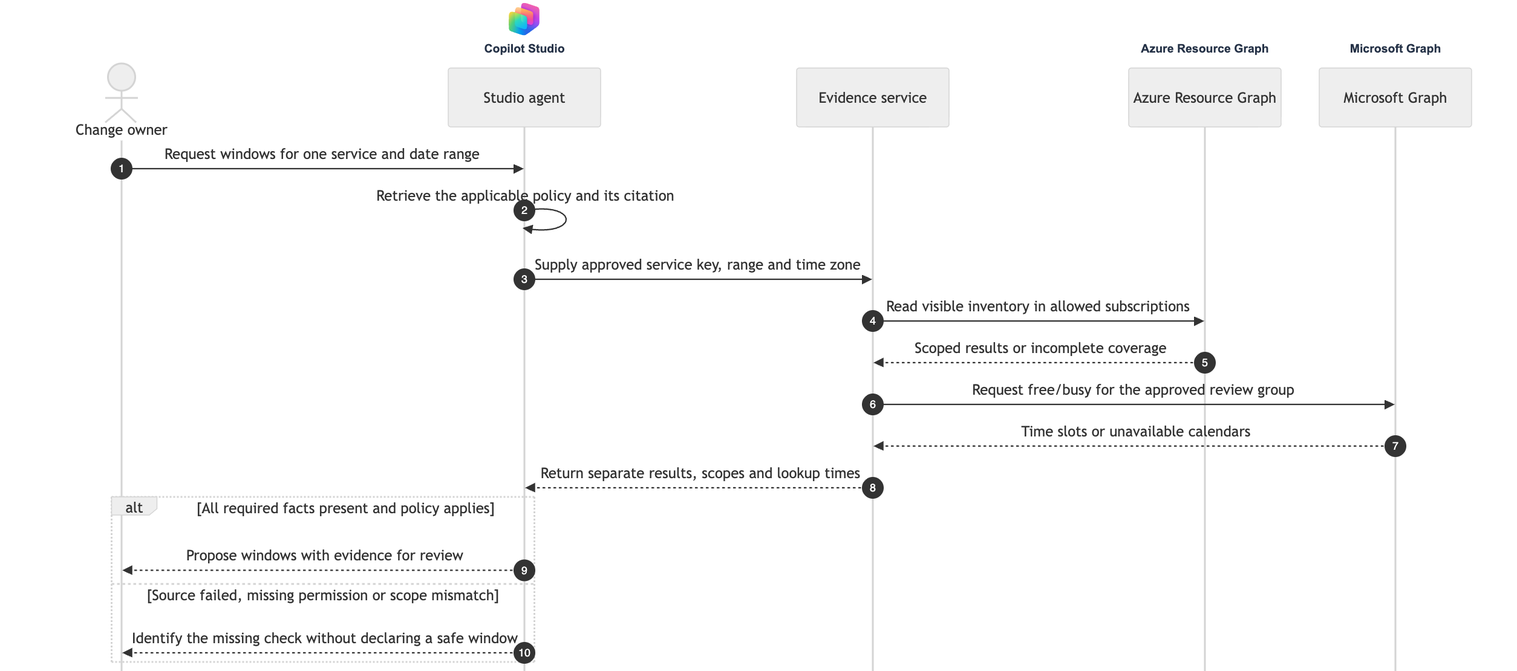
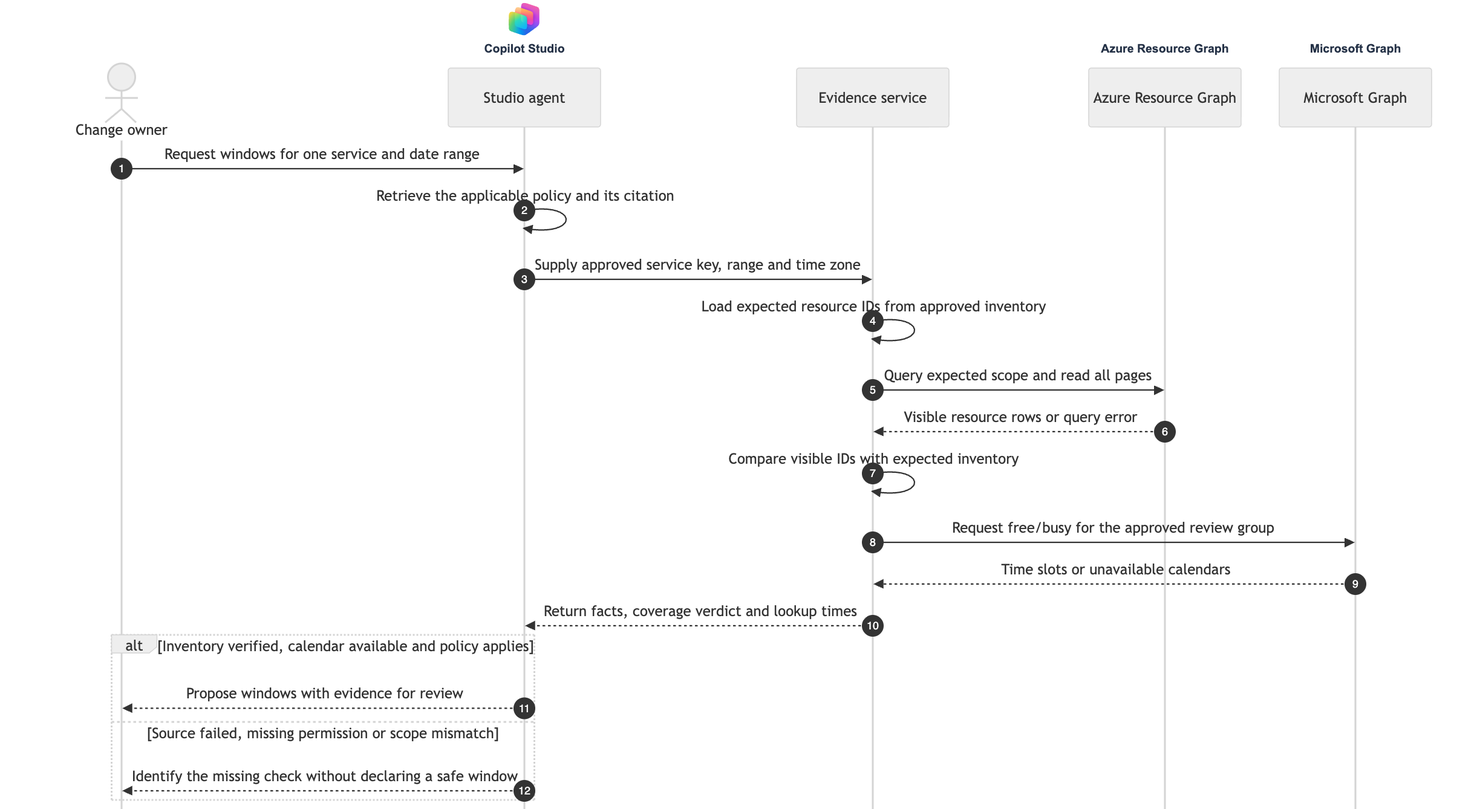
Require catalog-specific review evidence and correct two technical flows

diff --git a/tools/validate_solution.py b/tools/validate_solution.py
@@ -24,17 +24,71 @@ RULES = {
 }
 RISKS = ("retrieval", "writes", "external", "autonomous", "consequential", "custom_model")
 OBSERVED = {"quality", "operations", "cost", "identity", "grounding", "receipt", "egress", "trigger", "oversight", "lineage", "runtime"}
-# Only intrinsic risks: using a connector, for example, does not imply a write.
+# Minimum risks for the documented design, not everything its products could do.
+# () is a reviewed entry with no extra mandatory gate, not a missing classification.
 PATTERN_RISKS = {
-    "technical-patterns/write-reconciliation.md": {"writes"},
-    "technical-patterns/event-worker.md": {"autonomous"},
-    "technical-patterns/partner-iq-provider.md": {"external"},
-    "technical-patterns/web-iq-research.md": {"retrieval", "external"},
-    "technical-patterns/custom-retrieval.md": {"retrieval"},
-    "technical-patterns/azure-search-hybrid-rag.md": {"retrieval"},
-    "technical-patterns/foundry-iq-knowledge-base.md": {"retrieval"},
-    "technical-patterns/search-index-lifecycle.md": {"retrieval"},
-    "technical-patterns/m365-retrieval-api.md": {"retrieval"},
+    "reference-architectures/conversation-transcripts.md": ("writes", "autonomous"),
+    "reference-architectures/fabric-analytics.md": ("retrieval",),
+    "reference-architectures/hr-specialists.md": ("retrieval", "writes", "consequential"),
+    "reference-architectures/meeting-migration.md": ("writes",),
+    "reference-architectures/model-driven-form.md": (),  # Recommends; user owns the save.
+    "reference-architectures/multilingual-it-service.md": ("retrieval", "writes"),
+    "reference-architectures/regulatory-applications.md": ("retrieval", "writes", "consequential"),
+    "reference-architectures/sap-order-acknowledgments.md": ("retrieval", "writes", "autonomous", "consequential"),
+    "reference-architectures/student-recruitment.md": ("retrieval", "writes", "autonomous"),
+    "solution-ideas/bug-intake.md": ("retrieval", "writes", "autonomous", "external"),
+    "solution-ideas/cardiology-intake.md": ("writes", "autonomous", "consequential"),
+    "solution-ideas/custom-contact-center.md": ("retrieval", "external"),
+    "solution-ideas/customer-support.md": ("retrieval", "writes"),
+    "solution-ideas/donor-management.md": ("writes", "consequential"),
+    "solution-ideas/new-hire-onboarding.md": ("writes",),  # HR trigger is optional.
+    "solution-ideas/patient-support.md": ("retrieval", "writes", "consequential"),
+    "solution-ideas/rental-search-checkout.md": ("retrieval", "writes", "external", "consequential", "autonomous"),
+    "solution-ideas/spend-anomalies.md": ("retrieval", "writes", "autonomous", "consequential"),
+    "solution-ideas/ticket-refunds.md": ("writes", "autonomous", "consequential"),
+    "solution-ideas/travel-concierge.md": ("retrieval",),
+    "decision-patterns/bot-front-handoff.md": ("writes",),  # Opens a mapped live session.
+    "decision-patterns/classic-topics.md": ("writes",),  # Confirmed badge request.
+    "decision-patterns/copilot-reasoning-loop.md": ("retrieval",),
+    "decision-patterns/fabric-connected.md": ("retrieval",),
+    "decision-patterns/fabric-copilot-harness.md": ("retrieval",),
+    "decision-patterns/fabric-direct.md": ("retrieval",),
+    "decision-patterns/fabric-standard-harness.md": ("retrieval",),
+    "decision-patterns/generative-planning.md": ("retrieval",),
+    "decision-patterns/hub-front-handoff.md": ("writes",),  # Transfers ownership in the hub.
+    "technical-patterns/apim-rest-to-mcp.md": ("retrieval", "external"),  # Carrier API.
+    "technical-patterns/approval-workflow.md": ("writes", "consequential"),
+    "technical-patterns/azure-search-hybrid-rag.md": ("retrieval",),
+    "technical-patterns/change-window-evidence.md": ("retrieval",),
+    "technical-patterns/child-agent.md": ("writes",),  # Includes confirmed asset returns.
+    "technical-patterns/connected-agent.md": ("retrieval",),
+    "technical-patterns/connector-action.md": ("retrieval",),  # Shipment status only.
+    "technical-patterns/custom-retrieval.md": ("retrieval",),
+    "technical-patterns/customer-voice-chat.md": ("retrieval",),
+    "technical-patterns/direct-rest-tool.md": ("retrieval",),
+    "technical-patterns/evaluation-gate.md": (),  # Test fixtures, not a production operation.
+    "technical-patterns/event-worker.md": ("writes", "autonomous"),
+    "technical-patterns/fabric-iq-ontology.md": ("retrieval",),
+    "technical-patterns/foundry-agent-specialist.md": ("retrieval",),
+    "technical-patterns/foundry-iq-knowledge-base.md": ("retrieval",),
+    "technical-patterns/m365-retrieval-api.md": ("retrieval",),
+    "technical-patterns/mcp-tools.md": (),  # Tool discovery doesn't specify the operation.
+    "technical-patterns/operational-monitoring.md": (),  # Observes the workload's outcomes.
+    "technical-patterns/partner-iq-provider.md": ("retrieval", "external"),
+    "technical-patterns/public-knowledge.md": ("retrieval", "external"),
+    "technical-patterns/remote-a2a-specialist.md": ("retrieval", "external"),
+    "technical-patterns/search-index-lifecycle.md": ("retrieval",),
+    "technical-patterns/secured-web-client.md": (),
+    "technical-patterns/semantic-model-contract.md": ("retrieval",),
+    "technical-patterns/sharepoint-grounding.md": ("retrieval",),
+    "technical-patterns/skill-package.md": ("retrieval",),  # Reads the report behind the draft.
+    "technical-patterns/solution-promotion.md": (),
+    "technical-patterns/synchronous-agent-flow.md": ("writes",),
+    "technical-patterns/tool-identity.md": ("retrieval",),
+    "technical-patterns/web-iq-research.md": ("retrieval", "external"),
+    "technical-patterns/work-iq-context.md": ("retrieval",),
+    "technical-patterns/write-reconciliation.md": ("writes",),
+    "technical-patterns/zoned-governance.md": (),
 }
 
 
@@ -84,9 +138,11 @@ def review(packet):
     risks, checks = packet["risks"], packet["checks"]
     exact_fields(risks, RISKS, "risks")
     require(all(type(v) is bool for v in risks.values()), "set each risk explicitly to true or false")
-    for path in patterns:
-        for risk in sorted(PATTERN_RISKS.get(path, set())):
-            require(risks[risk], f"{path} requires risks.{risk}=true")
+    unclassified = set(patterns) - PATTERN_RISKS.keys()
+    require(not unclassified, f"catalog risk classification missing: {sorted(unclassified)}")
+    conflicts = [f"{path} requires risks.{risk}=true"
+                 for path in patterns for risk in PATTERN_RISKS[path] if not risks[risk]]
+    require(not conflicts, "; ".join(conflicts))
     required = {k for k, (t, _, _) in RULES.items()
                 if t is None or risks.get(t) or (t == "existing" and packet["stage"] == "existing")}
     require(isinstance(checks, dict), "checks must be an object")

diff --git a/tests/test_solution.py b/tests/test_solution.py
@@ -4,8 +4,9 @@ import sys
 import tempfile
 import unittest
 from pathlib import Path
+from unittest.mock import patch
 
-from tools.validate_solution import OBSERVED, ROOT, RULES, review
+from tools.validate_solution import GROUPS, OBSERVED, PATTERN_RISKS, RISKS, ROOT, RULES, review
 
 
 class SolutionReview(unittest.TestCase):
@@ -50,6 +51,43 @@ class SolutionReview(unittest.TestCase):
         self.packet["risks"]["retrieval"] = False
         with self.assertRaisesRegex(ValueError, "requires risks.retrieval"):
             review(self.packet)
+
+    def test_all_catalog_entries_have_reviewed_risks(self):
+        catalog = {p.relative_to(ROOT).as_posix()
+                   for group in GROUPS for p in (ROOT / group).glob("*.md")}
+        self.assertEqual(PATTERN_RISKS.keys(), catalog)
+        for path, risks in PATTERN_RISKS.items():
+            self.assertTrue(set(risks) <= set(RISKS), path)
+        with patch.dict(PATTERN_RISKS, clear=True), self.assertRaisesRegex(ValueError, "classification missing"):
+            review(self.packet)
+
+    def test_sap_cannot_skip_receipt_or_oversight(self):
+        self.packet["patterns"] = ["reference-architectures/sap-order-acknowledgments.md"]
+        self.packet["scope"] = "Read the current PO, submit the SAP confirmation and report its receipt."
+        self.packet["risks"] = dict.fromkeys(RISKS, False)
+        with self.assertRaises(ValueError) as error:
+            review(self.packet)
+        for risk in ("retrieval", "writes", "autonomous", "consequential"):
+            self.assertIn(f"requires risks.{risk}=true", str(error.exception))
+            self.packet["risks"][risk] = True
+        result = review(self.packet)
+        self.assertEqual(result["outcome"], "incomplete")
+        self.assertEqual({f["gate"] for f in result["findings"]}, {"trigger", "receipt", "oversight"})
+
+    def test_read_only_evidence_does_not_require_a_receipt(self):
+        self.packet["patterns"] = ["technical-patterns/change-window-evidence.md"]
+        self.packet["scope"] = "Read policy, inventory and availability to propose a window. Do not book it."
+        result = review(self.packet)
+        self.assertEqual(result["outcome"], "ready-for-human-review")
+        self.assertNotIn("receipt", result["required"])
+        self.assertIn("grounding", result["required"])
+
+    def test_multiple_patterns_require_the_union_of_risks(self):
+        self.packet["patterns"].append("technical-patterns/write-reconciliation.md")
+        with self.assertRaisesRegex(ValueError, "requires risks.writes"):
+            review(self.packet)
+        self.packet["risks"]["writes"] = True
+        self.assertEqual([f["gate"] for f in review(self.packet)["findings"]], ["receipt"])
 
     def test_unmapped_architecture_needs_explanation(self):
         self.packet["patterns"] = []

diff --git a/tests/test_checkout.py b/tests/test_checkout.py
@@ -1,0 +1,56 @@
+import re
+import shutil
+import subprocess
+import tempfile
+import unittest
+from pathlib import Path
+
+from tools.validate_solution import ROOT
+
+
+@unittest.skipUnless(shutil.which("git"), "requires Git checkout filters")
+class CheckoutPolicy(unittest.TestCase):
+    def setUp(self):
+        tmp = tempfile.TemporaryDirectory()
+        self.addCleanup(tmp.cleanup)
+        self.repo = Path(tmp.name)
+        self.git("init", "--quiet")
+        for name in (".gitignore", ".gitattributes"):
+            shutil.copyfile(ROOT / name, self.repo / name)
+
+    def git(self, *args, **kwargs):
+        return subprocess.run(["git", "-c", "core.autocrlf=true", *args], cwd=self.repo,
+                              capture_output=True, check=True, **kwargs)
+
+    def test_private_packet_is_not_staged_by_git_add(self):
+        guide = (ROOT / "review/README.md").read_text()
+        filename = re.search(r"--init proposed > ([\w./-]+)", guide)[1]
+        packet = self.repo / filename
+        packet.parent.mkdir(parents=True, exist_ok=True)
+        packet.write_text("{}")
+        example = "review/examples/proposed.json"
+        (self.repo / example).parent.mkdir(parents=True)
+        (self.repo / example).write_text("{}")
+        self.git("add", ".")
+        staged = self.git("ls-files").stdout.decode().splitlines()
+        self.assertNotIn(filename, staged)
+        self.assertIn(example, staged)
+
+    def test_windows_checkout_preserves_renderer_inputs(self):
+        files = ("reference-architectures/sap-order-acknowledgments.md", "COMPONENTS.md",
+                 "tools/diagrams/platforms.txt", "tools/diagrams/render.mjs",
+                 "tools/diagrams/package-lock.json", "assets/platforms/studio.svg",
+                 "assets/platforms/products.json", "assets/flows/manifest.json",
+                 "assets/flows/write-reconciliation.png")
+        for name in files:
+            dest = self.repo / name
+            dest.parent.mkdir(parents=True, exist_ok=True)
+            shutil.copyfile(ROOT / name, dest)
+        (self.repo / "control.txt").write_bytes(b"one\ntwo\n")
+        self.git("add", ".")
+        self.git("checkout-index", "--all", "--prefix=clean/")
+        checkout = self.repo / "clean"
+        self.assertEqual((checkout / "control.txt").read_bytes(), b"one\r\ntwo\r\n")
+        for name in files:
+            with self.subTest(name=name):
+                self.assertEqual((checkout / name).read_bytes(), (ROOT / name).read_bytes())

diff --git a/review/README.md b/review/README.md
@@ -7,14 +7,15 @@ Use this review before approving a design or renewing approval for an existing A
 1. **Scope the decision.** Name the owner, users, business outcome, supported channel and version. Identify what the system must not do. For an existing solution, review what is deployed, not the original slide deck.
 2. **Trace one success and one failure.** Follow the sequence arrows: what data crosses each boundary, under whose identity, with which authority? Map those choices to [catalog paths](../CATALOG.md). If none fit, set `patterns` to `[]` and record `unmapped_reason`. Never select a Microsoft pattern just to make a review pass.
 3. **Select the risks and attach evidence.** Declare every risk `true` or `false`. A reviewer challenges each `false` against the data-flow diagram, not just the tool descriptions. Record a named owner, an artifact reference and a concrete finding for each applicable gate. Design evidence can be a versioned ADR or acceptance test plan; observed evidence should identify the environment, measurement window, build and actual outcome.
-4. **Run locally.** From the repository root, with Python 3.9+:
+4. **Run locally.** Use an approved private workspace for real evidence. If local review packets are permitted, this example uses a Git-ignored directory from the repository root (Python 3.9+, POSIX shell):
 
    ```sh
-   python3 tools/validate_solution.py --init proposed > my-review.json
-   python3 tools/validate_solution.py my-review.json
+   (umask 077; set -C; mkdir -p .private-reviews && python3 tools/validate_solution.py --init proposed > .private-reviews/my-review.json)
+   # Edit the packet, then run:
+   python3 tools/validate_solution.py .private-reviews/my-review.json
    ```
 
-   Use `--init existing` for an operating solution. Fill in the scope and risks, then run with `checks: {}` to get the required gates, questions and related patterns. Copy the check shape from the [proposed example](examples/proposed.json). Keep real packets and evidence in your approved **private** system; the validator does not read evidence URLs, inspect tenants or call a model. Do not upload transcripts, credentials or sensitive architecture to this public repository.
+   The initialization command refuses to overwrite an existing packet. Use `--init existing` for an operating solution. Fill in the scope and risks, then run with `checks: {}` to get the required gates, questions and related patterns. Copy the check shape from the [proposed example](examples/proposed.json). Git ignore rules prevent accidental staging, **not** deliberate publication or access by other software. Never force-add real packets or upload transcripts, credentials or sensitive architecture here. The validator does not read evidence URLs, inspect tenants or call a model.
 5. **Record the human decision.** An architect and the accountable business owner inspect the referenced evidence. Record the solution/version, decision (approve scope / request changes / reject), rationale, outstanding actions, owner, due date, evidence snapshot and re-review trigger. An approval for a design is **not** go-live approval. Re-run after a new model, data source, permission, channel, write tool, material cost change or incident.
 
 ## What is checked
@@ -31,7 +32,9 @@ Use this review before approving a design or renewing approval for an existing A
 | Owns trained or fine-tuned model artifacts | `lineage` | Dataset rights and splits, evaluation and model version lineage, serving/training skew, drift alert, rollback version. See [model lifecycle guidance](https://learn.microsoft.com/en-us/azure/machine-learning/concept-model-management-and-deployment?view=azureml-api-2) or the equivalent for your stack. |
 | Already operating | `runtime` | Deployed version, representative observation window, business receipts, incident history and rollback evidence. Existing reviews also require `basis: "observed"` for quality, identity, operations, cost and applicable risk gates. |
 
-These are catalog rules inspired by Microsoft's [fit, operability and trust pillars](https://learn.microsoft.com/en-us/agents/architecture/), not official Microsoft pass/fail criteria. Some selected patterns imply a risk: a write-reconciliation design cannot declare `writes: false`, for example. This catches contradictions, not undisclosed risks. For a regulated or safety-critical workload, route remaining domain and legal obligations to qualified reviewers.
+These are catalog rules inspired by Microsoft's [fit, operability and trust pillars](https://learn.microsoft.com/en-us/agents/architecture/), not official Microsoft pass/fail criteria. Each entry has a [minimum risk classification](../tools/validate_solution.py) for its documented design. Selecting multiple entries combines their minimums; a `false` declaration that contradicts one makes the packet invalid. You must still declare deployment-specific risks: the validator does not infer them from prose, product names or credentials.
+
+For example, the [SAP acknowledgment design](../reference-architectures/sap-order-acknowledgments.md) reads purchase orders as matching evidence, starts on a Dataverse event and can post a financial confirmation. It requires `grounding`, `trigger`, `receipt` and `oversight`. In contrast, the [change-window brief](../technical-patterns/change-window-evidence.md) retrieves evidence but cannot book a meeting or deploy a change; it does not inherently require a receipt gate. If you reuse just a read-only part of a transactional architecture, select the narrower matching pattern and explain the excluded write in `scope`. For regulated or safety-critical workloads, route domain and legal obligations to qualified reviewers.
 
 ## Interpret the result
 

diff --git a/technical-patterns/write-reconciliation.md b/technical-patterns/write-reconciliation.md
@@ -7,13 +7,17 @@
 ```mermaid
 flowchart LR
     accTitle: Resolve a lost receipt at the order system
-    U["Requester"] -->|"Approved request ID"| A["Copilot Studio agent"]
-    A -->|"Submit or check status"| C["Authenticated order tool"]
-    C -->|"Same business key and payload"| S["Order system with unique request key"]
-    S -->|"Durable receipt or pending status"| C
-    C -->|"Caller-scoped result"| A
+    U["Requester"] -->|"Check status or explicitly submit"| A["Copilot Studio agent"]
+    A -->|"Check or reconcile"| Q["Read-status operation"]
+    A -->|"Explicit submission only"| C["Submit operation"]
+    Q -->|"Read by caller and request key"| S["Order system with unique request key"]
+    C -->|"Verify approval, bind key and payload"| S
+    S -->|"Receipt, pending, not found or unknown"| Q
+    S -->|"Committed receipt or rejection"| C
+    Q -->|"Caller-scoped status; never creates"| A
+    C -->|"Receipt, rejection or uncertain outcome"| A
     A -->|"Confirmed, pending or needs review"| U
-    C -.->|"Unknown past deadline"| H["Operations reconciliation queue"]
+    A -.->|"Unresolved past deadline"| H["Operations reconciliation queue"]
 ```
 
 **Review decision:** Which system guarantees one effect per business request and can return its receipt? A flow run ID identifies an attempt; it cannot prove the downstream write happened once.
@@ -33,18 +37,27 @@ sequenceDiagram
     participant A as Service desk agent
     participant B as Order tool
     participant S as Order system
-    U->>A: Check my approved replacement
-    A->>B: Submit authorized request by stable ID
-    B->>S: Create once with request key and payload
-    alt Receipt returned
-        S-->>B: Existing or new receipt for this request
-        B-->>A: Confirmed receipt
-        A-->>U: Show confirmed order
-    else Response missing after submission
-        B->>S: Look up the same key as the authorized caller
-        S-->>B: Receipt, pending, or unknown
-        B-->>A: Report observed status without a new submission
-        A-->>U: Show receipt or request ID for follow-up
+    alt Status inquiry only
+        U->>A: Check my replacement
+        A->>B: Read status for this request ID
+        B->>S: Look up caller-scoped key without creating
+        S-->>B: Receipt, pending, not found or unknown
+        B-->>A: Observed status only
+        A-->>U: Show status without submitting
+    else Explicit submission of approved order
+        U->>A: Submit my approved replacement
+        A->>B: Submit approved request ID
+        B->>S: Verify authority and create once by key and payload
+        alt Receipt or rejection returned
+            S-->>B: Receipt or rejection
+            B-->>A: Verified outcome
+            A-->>U: Show receipt or rejection
+        else Response missing after submission
+            B->>S: Read status using the same caller and key
+            S-->>B: Receipt, pending, not found or unknown
+            B-->>A: Status without a second submission
+            A-->>U: Show receipt or tracking reference for follow-up
+        end
     end
 ```
 
@@ -65,6 +78,7 @@ sequenceDiagram
 
 - **Use when:** Retries could create duplicate refunds, orders or postings. For a service with no unique external key, idempotent operation or authoritative lookup, do not promise exactly-once behavior: hold ambiguous calls for review. A local “sent” flag cannot close the gap between a remote commit and a lost acknowledgment.
 - **Trust:** The backend derives or verifies the key from the approved immutable business request and tenant; it does not trust a model-generated UUID on each turn. Reuse of a key with changed amount, recipient or payload is a conflict, not a replay. Recheck authorization on lookups and never treat possession of a request ID as authority.
-- **Test:** Drop the response *after* the backend commits. Submit the same approved operation concurrently and again from a new conversation: the caller should see one business receipt. Repeat with a changed payload and a different tenant; neither may get that receipt. If a not-found response can lag the write, wait or escalate; replay only when the downstream idempotency guarantee still applies.
+- **Acceptance tests:** Ask “check my replacement” with an authorized request ID for which no order exists. Assert a status lookup, **zero submit calls**, and no new order. Return “not found” only when the lookup is authoritative; otherwise say “not verified.” If intent is ambiguous, ask which operation the caller wants and do not submit.
+- **Lost-reply test:** Drop the response *after* the backend commits. Repeat the same explicitly requested and approved operation concurrently and from a new conversation: the caller should see one business receipt. A changed payload or a different tenant must not get that receipt. If a not-found response can lag the write, wait or escalate. A missing receipt is never an instruction to submit.
 
 **Sources:** [Azure Architecture Center: Asynchronous Request-Reply, including idempotency keys](https://learn.microsoft.com/en-us/azure/architecture/patterns/asynchronous-request-reply) · [Retry pattern and idempotency](https://learn.microsoft.com/en-us/azure/architecture/patterns/retry) · [Studio tool credentials](https://learn.microsoft.com/en-us/microsoft-copilot-studio/configure-enduser-authentication).

diff --git a/technical-patterns/change-window-evidence.md b/technical-patterns/change-window-evidence.md
@@ -11,11 +11,12 @@ flowchart TB
     A -->|"Approved policy scope"| K["Knowledge source<br/>change policy"]
     K -->|"Versioned citation"| A
     A -->|"Service ID and window"| B["Read-only evidence service"]
+    M["Owner-verified service inventory"] -->|"Expected resource IDs and scope version"| B
     B -->|"Scoped inventory query"| R["Azure Resource Graph"]
     B -->|"Free/busy request"| G["Microsoft Graph"]
     R -->|"Visible inventory"| B
     G -->|"Calendar availability"| B
-    B -->|"Facts with scope and time"| A
+    B -->|"Facts, checked coverage and time"| A
     A -->|"Draft or missing evidence"| U
     U -.->|"Separate submission"| H["Change approval system"]
 ```
@@ -41,12 +42,14 @@ sequenceDiagram
     U->>A: Request windows for one service and date range
     A->>A: Retrieve the applicable policy and its citation
     A->>B: Supply approved service key, range and time zone
-    B->>R: Read visible inventory in allowed subscriptions
-    R-->>B: Scoped results or incomplete coverage
+    B->>B: Load expected resource IDs from approved inventory
+    B->>R: Query expected scope and read all pages
+    R-->>B: Visible resource rows or query error
+    B->>B: Compare visible IDs with expected inventory
     B->>G: Request free/busy for the approved review group
     G-->>B: Time slots or unavailable calendars
-    B-->>A: Return separate results, scopes and lookup times
-    alt All required facts present and policy applies
+    B-->>A: Return facts, coverage verdict and lookup times
+    alt Inventory verified, calendar available and policy applies
         A-->>U: Propose windows with evidence for review
     else Source failed, missing permission or scope mismatch
         A-->>U: Identify the missing check without declaring a safe window
@@ -69,8 +72,8 @@ sequenceDiagram
 
 ## Design notes
 
-- **Design the evidence contract first.** Return the policy URL/version, inventory scope and observation time, calendar time zone and slot, and a completeness flag for each source. Map service IDs to known subscriptions and review groups in trusted configuration. Use a fixed inventory query and a bounded time range. If the only need is meeting availability, use a calendar tool alone.
+- **Define what “covered” means.** The service owner supplies a versioned inventory of the required resource IDs and subscriptions, independent of the querying principal's view. The evidence service reads every page of a fixed query and compares IDs, not counts. Mark coverage **verified for that inventory version** only if it is current and every required ID was observed. Mark a known gap **incomplete**; mark coverage **unknown** if the baseline is missing, stale or not known to be exhaustive, or the query did not finish. An HTTP success, an empty page or one visible resource per subscription does not establish coverage. Return the verdict, permitted scope, inventory version and observation time alongside the policy citation and time-zoned free/busy result.
 - **Trust boundary:** Call the Azure Resource Graph `Resources` API with Azure RBAC read access and Microsoft Graph `getSchedule` with an independently authorized, delegated work-account connection (`Calendars.ReadBasic` is the documented least privilege). A middle tier needs tokens for the correct audiences. Return only free/busy intervals, not event subjects; do not treat a partially visible subscription as a complete service inventory.
-- **Failure handling and acceptance:** Azure Resource Graph is eventually consistent. If an authoritative last-minute configuration check is mandatory, require it in the change system. Test a hidden subscription, missing free/busy data and a daylight-saving transition. Each must produce a qualified proposal or no proposal, never a false approval. The agent has no tool to deploy a change or send a meeting invitation.
+- **Failure handling and acceptance:** Resource Graph can silently omit resources the principal cannot read. Test a successful response with one required subscription hidden, a missing resource within a visible subscription, and a stale inventory baseline. Also test missing free/busy data and an ambiguous daylight-saving transition. Withhold the window if any required fact cannot be verified; explain the gap without disclosing inaccessible resource identifiers. Resource Graph is eventually consistent: if an authoritative last-minute check is mandatory, require it in the change system. The agent cannot deploy a change or send an invitation.
 
 **Sources:** [Azure Resource Graph Resources REST API](https://learn.microsoft.com/en-us/rest/api/azureresourcegraph/resourcegraph/resources/resources?view=rest-azureresourcegraph-resourcegraph-2024-04-01) · [Resource Graph permissions and consistency](https://learn.microsoft.com/en-us/azure/governance/resource-graph/overview) · [Microsoft Graph calendar getSchedule](https://learn.microsoft.com/en-us/graph/api/calendar-getschedule?view=graph-rest-1.0).

diff --git a/review/verification-plan.md b/review/verification-plan.md
@@ -7,7 +7,7 @@ Use the same sequence for follow-up releases. There are two separate deliverable
 | 1. Freeze the baseline | Record the review date and parent commit. Compare the entries under the Learn architecture index and named decision guides with `CATALOG.md`, by source URL and option, not by topic similarity. | Every listed architecture, idea and option maps to one file in the correct class. Record additions, moved sources and limitations in the dated audit. |
 | 2. Review technical meaning | Follow the source, entry, component map and sequence. Check which product handles the request, which identity reads/writes, who can approve, what constitutes completion, and whether preview, channel and licensing caveats change the choice. | A material inconsistency is corrected or explicitly flagged. Synthesized additions address distinct decisions: recovery after an ambiguous write and remote A2A delegation rather than MCP tool invocation. |
 | 3. Illustrate the actual flow | Assign every sequence participant a platform or explicitly leave it unbranded. Use unmodified approved assets, keep a text alternative, and regenerate static images from the same Mermaid source. | Every entry displays an image on GitHub without remote icon loading. Names remain readable; a product present elsewhere in the architecture does not get added to a flow that never calls it. |
-| 4. Make review repeatable | Provide local intake and a rubric for design versus operating evidence. Link risk-triggered controls to remedy patterns. Include a passing design example and a failing operating case. | False or missing declarations cannot silently satisfy a required gate. Failed controls take precedence over incomplete evidence. No score, model or automatic deployment decision substitutes for human review. |
+| 4. Make review repeatable | Classify every new or revised entry in the [validator](../tools/validate_solution.py) against what its documented design actually does. Link risk-triggered controls to remedy patterns, and keep real intake packets private. | A missing classification or a declaration below the selected design's minimum cannot produce readiness. Verify a write example needs receipt evidence and a read-only example does not. Failed controls take precedence over incomplete evidence. No score, model or automatic deployment decision substitutes for human review. |
 | 5. Exercise and release | Run the Python suite and the [browser render check](../tools/diagrams/README.md). Inspect representative flows for branding and arrow/branch readability. Check cited sources and review the staged diff for unrelated files or sensitive material. | Examples produce the documented exit codes; all indexes and local links resolve; every image matches its source/icon fingerprint. Publish without force and confirm the remote default branch's SHA. |
 
 **What changed in this pass:** [coverage and content audit](../REVIEW-2026-11-27.md), [transaction recovery](../technical-patterns/write-reconciliation.md) and [remote A2A delegation](../technical-patterns/remote-a2a-specialist.md), [official icon registry](../assets/platforms/products.json), [platform maps and image build](../tools/diagrams/README.md), [solution validator and examples](README.md), and executable [catalog and decision tests](../tests/). No tenant access is part of these checks.

diff --git a/REVIEW-2026-11-27.md b/REVIEW-2026-11-27.md
@@ -48,3 +48,9 @@ The [renderer](tools/diagrams/README.md) rendered all **127 Mermaid diagrams** i
 The [repository tests](tests/) check guide coverage, counts, links, participant images and solution-review outcomes. The illustrative proposed design reached `ready-for-human-review`; the existing order service was `blocked` on its lost-receipt test. Neither result evaluates a live system. See the [repeatable verification plan](review/verification-plan.md).
 
 This was a dated documentation review, not a deployment, security assessment, licensing quote or certification. No tenant, private data, billing meter, channel, connector or downstream write was exercised. The index's lifecycle pillars and SDK links are guidance, not an enumerated list of further architectures. Recheck preview status, effective identities and permissions in the intended environment; use receipts, negative tests and measured usage there before relying on a design.
+
+## Follow-up to `fcaff2b`
+
+The [order-recovery sequence](technical-patterns/write-reconciliation.md#technical-flow) now keeps a status-only question on a read path, including when no order is found. The [change-window sequence](technical-patterns/change-window-evidence.md#technical-flow) assigns the coverage decision to the evidence service: a successful Azure Resource Graph response alone cannot establish that all required resources were visible.
+
+The [validator](tools/validate_solution.py) now has an explicit minimum risk classification for each of the 62 entries. A fictional SAP packet with all risks false was rejected; correcting the declarations but omitting the evidence produced `incomplete` with four missing gates: `grounding`, `receipt`, `trigger` and `oversight`. A read-only change-window packet did not require a receipt. The [review quickstart](review/README.md) now uses a Git-ignored private directory. Checkout tests verified that ordinary staging excludes the private packet and that Git preserves renderer inputs with `core.autocrlf=true`. All 21 repository tests passed; the browser rendered all 127 diagrams and verified the 62 published flow images.

diff --git a/README.md b/README.md
@@ -41,6 +41,7 @@ Start with the claim the agent needs to make. **Retrieval-augmented generation (
 1. **Architect:** Open the [architecture diagram](reference-architectures/sap-order-acknowledgments.md#architecture). Agree with procurement on which differences can be accepted automatically and which must go to a specialist. The supplier document provides evidence; it does not set the tolerance.
 2. **Developer:** Follow the [technical flow](reference-architectures/sap-order-acknowledgments.md#technical-flow) and [component mapping](reference-architectures/sap-order-acknowledgments.md#copilot-studio-components). A Dataverse-triggered cloud flow starts the agent. The agent extracts and compares the lines; SAP supplies the authoritative order and the confirmation receipt.
 3. **Reviewer:** Ask what happens if SAP accepts the write but its reply never arrives. The design records a pending outcome and looks up the existing confirmation before any replay. That gives the team a concrete acceptance test: delivering the same acknowledgment twice must not confirm the order twice.
+4. **Review packet:** Select `reference-architectures/sap-order-acknowledgments.md`. The [validator](review/README.md) requires evidence for the authoritative PO (`grounding`), event replay (`trigger`), durable SAP confirmation (`receipt`) and the procurement owner's exception decision (`oversight`). The packet cannot pass by declaring the flow read-only.
 
 Every entry follows this reading order: an **architecture diagram** shows responsibilities, a **numbered sequence** shows what crosses each boundary, and **design notes** explain when to choose the pattern, when not to, and how to handle failure. Each technical sequence includes platform labels and [official architecture icons](assets/platforms/README.md) where applicable. Open the text version below the image for the editable sequence.
 

diff --git a/tools/diagrams/README.md b/tools/diagrams/README.md
@@ -12,3 +12,5 @@ python3 -m unittest discover -s tests -v
 ```
 
 Set `CHROME_PATH` if the Chrome executable isn't in its standard location. Dependency installation needs internet access; rendering then runs with networking disabled. `test` renders all entry and shared-guide Mermaid sources in Chrome, checks participant IDs, icon integrity, and the input and PNG fingerprints without rewriting output. Fonts and Chrome versions can change antialiasing between machines; review PNG changes before committing. For a new entry, add its flow-image Markdown link and a `platforms.txt` row explicitly mapping **every** participant ID (`-` means no platform), then regenerate. Never put access keys, environment IDs or tenant data in an example.
+
+The repository's [Git attributes](../../.gitattributes) keep diagram text and fingerprint inputs at LF even in Windows checkouts with `core.autocrlf=true`. Keep your editor on LF for those files. Official SVGs and published PNGs retain their original bytes; do not normalize or re-export them to fix a fingerprint failure.
